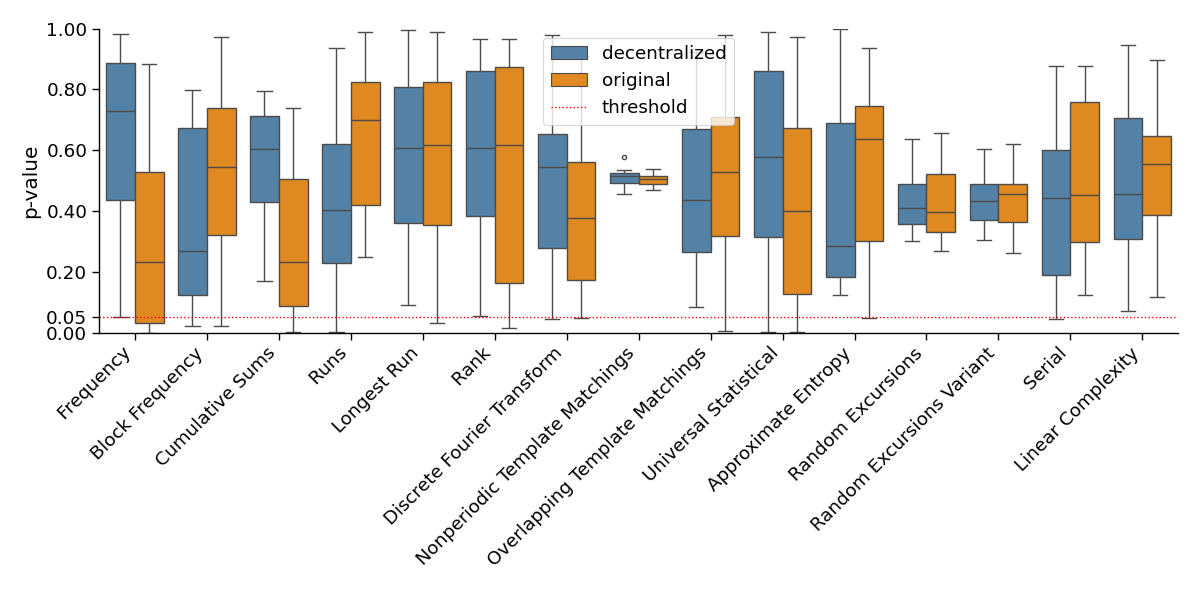
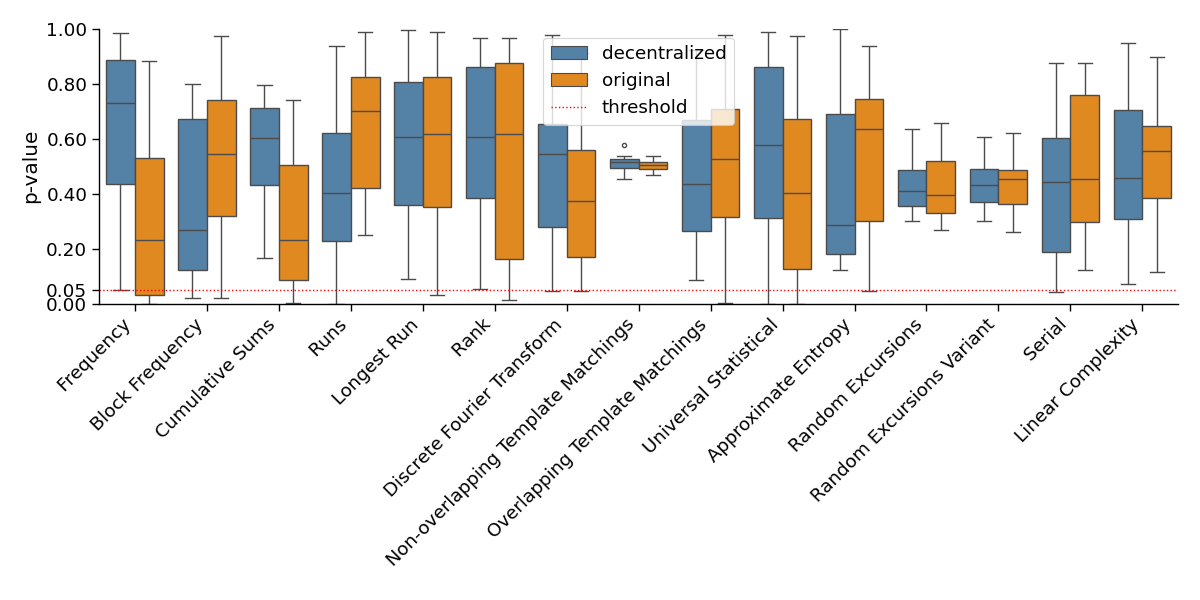
change test name in figures ('Non-overlapping')

diff --git a/report/Texts/5.Evaluations.tex b/report/Texts/5.Evaluations.tex
@@ -1,8 +1,4 @@
 \section{Evaluation}\label{sec:eval}
-\todo[inline, color=pink]{
-    Change 'Non-periodic Template Matching' to 'Non-overlapping Template Matching' in all figures.
-    NIST uses the first name in their code, and the second name in their documentation.
-}
 
 Our prototype implementation is available on \href{https://github.com/AurelienCha/Decentralized-Sphinx}{GitHub}\footnote{\url{https://github.com/AurelienCha/Decentralized-Sphinx}}.
 The implementation is written in Python 3.13 using the \href{https://pypi.org/project/ECPy/}{ECPy}\footnote{\url{https://pypi.org/project/ECPy/}} library for elliptic curve operations. 
@@ -71,8 +67,7 @@ These results are presented in Fig.\ref{fig:chisquare}.
     \centering
     % \hspace*{-1cm}
     \includegraphics[width=1.\linewidth]{Images/proportion_dot.png}
-    \caption{Proportion of successful sequences from our implementation and the original Sphinx implementation over the fifteen NIST SP 800-22 statistical tests (significance level = $0.01$).
-    \newline - TODO bigger dot + change 'Non-periodic' name}
+    \caption{Proportion of successful sequences from our implementation and the original Sphinx implementation over the fifteen NIST SP 800-22 statistical tests (significance level = $0.01$).}
     \label{fig:proportion}
 \end{figure}
 
@@ -90,8 +85,7 @@ In contrast, our implementation successfully passes three tests that the origina
     \centering
     % \hspace*{-2cm}
     \includegraphics[width=1.\linewidth]{Images/hist_p-values.png}
-    \caption{P-value distribution comparison between our implementation and the original Sphinx across the fifteen NIST SP 800-22 statistical tests.
-    \newline - TODO: Change 'Nonperiodic' name}
+    \caption{P-value distribution comparison between our implementation and the original Sphinx across the fifteen NIST SP 800-22 statistical tests.}
     \label{fig:hist_p-values}
 \end{figure*}
 
@@ -105,8 +99,7 @@ Both were successful for our implementation, and failing for the original Sphinx
     \centering
     % \hspace*{-1cm}
     \includegraphics[width=1.\linewidth]{Images/chisquare.png}
-    \caption{Chi-square test assessing the uniformity of p-value distributions for each dataset across the fifteen NIST SP 800-22 statistical tests.
-    \newline - TODO: Change 'Nonperiodic name}
+    \caption{Chi-square test assessing the uniformity of p-value distributions for each dataset across the fifteen NIST SP 800-22 statistical tests.}
     \label{fig:chisquare}
 \end{figure*}
 

diff --git a/src/experiments/analyze_results.py b/src/experiments/analyze_results.py
@@ -6,7 +6,7 @@ NIST_TEST_NAME = {
     'LongestRun': '   Longest Run',      
     'Rank': '   Rank', 
     'FFT': '  Discrete Fourier Transform', 
-    'NonOverlappingTemplate': '  Nonperiodic Template Matchings', 
+    'NonOverlappingTemplate': '  Non-overlapping Template Matchings', 
     'OverlappingTemplate': '  Overlapping Template Matchings', 
     'Universal': '  Universal Statistical', 
     'ApproximateEntropy': ' Approximate Entropy', 
@@ -220,7 +220,7 @@ def plot_proportion_dot(df, colors={'decentralized': 'steelblue', 'original': 'd
 
     d = df[['TEST','PROPORTION','Algo']].groupby(['TEST','Algo']).mean()
     d = d.reset_index()
-    g = sns.relplot(data=d, x='TEST', y='PROPORTION', hue='Algo', palette=colors, alpha=0.7)
+    g = sns.relplot(data=d, x='TEST', y='PROPORTION', hue='Algo', palette=colors, alpha=0.6, s=40)
     g._legend.remove()
     plt.legend(loc='lower right')
     plt.xticks(rotation=45, ha='right')
